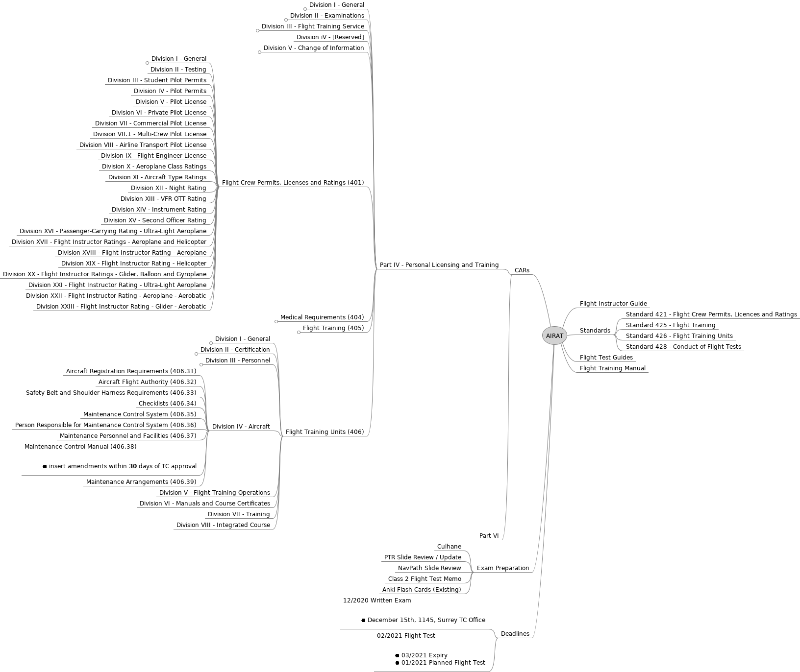
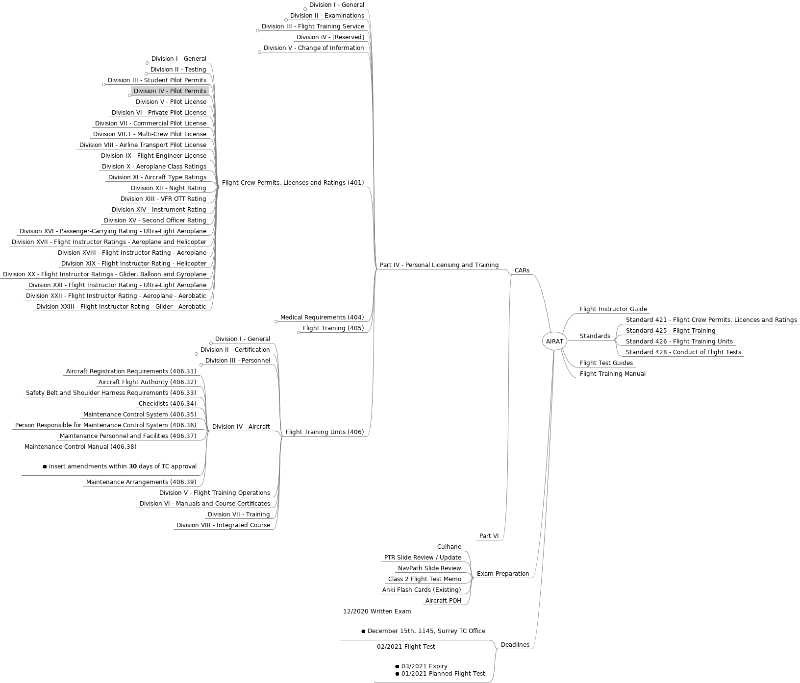
extended AIRAT mind map

diff --git a/FI/Documents/CARS/AIRAT.mm b/FI/Documents/CARS/AIRAT.mm
@@ -144,8 +144,7 @@
       </li>
     </ul>
   </body>
-</html>
-</richcontent>
+</html></richcontent>
 </node>
 <node CREATED="1602709482609" ID="ID_367148948" MODIFIED="1602709491628" TEXT="Requirement to Hold a Flight Crew Permit, Licence or Rating or a Foreign Licence Validation Certificate (401.03)"/>
 <node CREATED="1602709525309" ID="ID_9133881" MODIFIED="1602709530022" TEXT="Flight Crew Members of Aircraft Registered in Contracting States Other Than Canada (401.04)"/>
@@ -232,9 +231,43 @@
 </html></richcontent>
 </node>
 </node>
-<node CREATED="1602708627848" ID="ID_326761546" MODIFIED="1602708634191" TEXT="Division II - Testing"/>
-<node CREATED="1602708651847" ID="ID_365104351" MODIFIED="1602708658801" TEXT="Division III - Student Pilot Permits"/>
-<node CREATED="1602708671329" ID="ID_1634060802" MODIFIED="1602708676793" TEXT="Division IV - Pilot Permits"/>
+<node CREATED="1602708627848" FOLDED="true" ID="ID_326761546" MODIFIED="1602719186854" TEXT="Division II - Testing">
+<node CREATED="1602718619099" ID="ID_1553268553" MODIFIED="1602718625162" TEXT="Examination Prerequisites (401.13)"/>
+<node CREATED="1602718665641" ID="ID_1650594142" MODIFIED="1602718673187" TEXT="Flight Test Prerequisites (401.14)"/>
+<node CREATED="1602718825133" ID="ID_1519249816" MODIFIED="1602718934498">
+<richcontent TYPE="NODE"><html>
+  <head>
+    
+  </head>
+  <body>
+    <p>
+      Conduct of a Flight Test (401.15)
+    </p>
+    <p>
+      
+    </p>
+    <ul>
+      <li>
+        applicable <b>standard 428</b>
+      </li>
+    </ul>
+  </body>
+</html>
+</richcontent>
+</node>
+<node CREATED="1602718970866" ID="ID_875047402" MODIFIED="1602718977074" TEXT="Failure of a Flight Test (401.16)"/>
+<node CREATED="1602719006604" ID="ID_606010937" MODIFIED="1602719015733" TEXT="Failure of a Flight Test for a Rating Renewal (401.17)"/>
+<node CREATED="1602719073387" ID="ID_776085857" MODIFIED="1602719090339" TEXT="Examiner&#x2019;s Endorsement of Personal Log - Gliders and Balloons (401.18)"/>
+</node>
+<node CREATED="1602708651847" FOLDED="true" ID="ID_365104351" MODIFIED="1602719297489" TEXT="Division III - Student Pilot Permits">
+<node CREATED="1602719204802" ID="ID_1848954877" MODIFIED="1602719218316" TEXT="Privileges (401.19)"/>
+</node>
+<node CREATED="1602708671329" FOLDED="true" ID="ID_1634060802" MODIFIED="1602719770336" TEXT="Division IV - Pilot Permits">
+<node CREATED="1602719313659" ID="ID_534669498" MODIFIED="1602719329917" TEXT="Gyroplanes - Privileges (401.20)"/>
+<node CREATED="1602719418391" ID="ID_790621627" MODIFIED="1602719429740" TEXT="Ultra-light Aeroplanes - Privileges (401.21)"/>
+<node CREATED="1602719573422" ID="ID_120091614" MODIFIED="1602719599617" TEXT="Recreational - Aeroplanes - Privileges (401.22)"/>
+<node CREATED="1602719698689" ID="ID_528850096" MODIFIED="1602719722484" TEXT="Recreational - Helicopters - Privileges (401.23)"/>
+</node>
 <node CREATED="1602708693785" ID="ID_1273904181" MODIFIED="1602708700820" TEXT="Division V - Pilot License"/>
 <node CREATED="1602708717387" ID="ID_844779725" MODIFIED="1602708725893" TEXT="Division VI - Private Pilot License"/>
 <node CREATED="1602708742023" ID="ID_444083766" MODIFIED="1602708750655" TEXT="Division VII - Commercial Pilot License"/>
@@ -376,8 +409,7 @@
       </li>
     </ul>
   </body>
-</html>
-</richcontent>
+</html></richcontent>
 </node>
 <node CREATED="1602545258035" ID="ID_1938497332" MODIFIED="1602545316851">
 <richcontent TYPE="NODE"><html>
@@ -426,8 +458,7 @@
       </li>
     </ul>
   </body>
-</html>
-</richcontent>
+</html></richcontent>
 </node>
 <node CREATED="1602704778787" ID="ID_984703567" MODIFIED="1602704784456" TEXT="Application (405.02)"/>
 </node>
@@ -448,8 +479,7 @@
       Qualifications of Flight Instructors (405.21)
     </p>
   </body>
-</html>
-</richcontent>
+</html></richcontent>
 </node>
 <node CREATED="1602705019259" ID="ID_944917990" MODIFIED="1602705024716" TEXT="Aircraft Familiarization (405.22)"/>
 <node CREATED="1602705054530" ID="ID_479862282" MODIFIED="1602705060050" TEXT="Training Aircraft Requirements (405.23)"/>
@@ -472,8 +502,7 @@
       Division I - General
     </p>
   </body>
-</html>
-</richcontent>
+</html></richcontent>
 <node CREATED="1602702706290" ID="ID_968320992" MODIFIED="1602705239429">
 <richcontent TYPE="NODE"><html>
   <head>
@@ -492,8 +521,7 @@
       </li>
     </ul>
   </body>
-</html>
-</richcontent>
+</html></richcontent>
 </node>
 <node CREATED="1602702764580" ID="ID_483259101" MODIFIED="1602702770884" TEXT="Application (406.02)"/>
 <node CREATED="1602702794074" ID="ID_1074986471" MODIFIED="1602702800132" TEXT="Requirement to Hold a Flight Training Unit Operator Certificate (406.03)"/>
@@ -507,8 +535,7 @@
       Eligibility to Hold a Flight Training Unit Operator Certificate (406.04)
     </p>
   </body>
-</html>
-</richcontent>
+</html></richcontent>
 </node>
 <node CREATED="1602629445864" ID="ID_1286691528" MODIFIED="1602700659712">
 <richcontent TYPE="NODE"><html>
@@ -541,8 +568,7 @@
       Division II - Certification
     </p>
   </body>
-</html>
-</richcontent>
+</html></richcontent>
 <node CREATED="1602629627297" FOLDED="true" ID="ID_71323751" MODIFIED="1602703184300">
 <richcontent TYPE="NODE"><html>
   <head>
@@ -618,8 +644,7 @@
       Division III - Personnel
     </p>
   </body>
-</html>
-</richcontent>
+</html></richcontent>
 <node CREATED="1602699904222" ID="ID_770436872" MODIFIED="1602700389087">
 <richcontent TYPE="NODE"><html>
   <head>
@@ -789,8 +814,7 @@
       </li>
     </ul>
   </body>
-</html>
-</richcontent>
+</html></richcontent>
 </node>
 <node CREATED="1602704207938" ID="ID_1362297902" MODIFIED="1602704215170" TEXT="Maintenance Arrangements (406.39)"/>
 </node>
@@ -805,8 +829,7 @@
       Division VI -&#160;Manuals and Course Certificates
     </p>
   </body>
-</html>
-</richcontent>
+</html></richcontent>
 </node>
 <node CREATED="1602702552628" ID="ID_578560252" MODIFIED="1602702558151" TEXT="Division VII - Training"/>
 <node CREATED="1602702575444" ID="ID_263017236" MODIFIED="1602702583994" TEXT="Division VIII - Integrated Course"/>
@@ -848,6 +871,7 @@
 <node CREATED="1602348183541" ID="ID_1440743899" MODIFIED="1602348200585" TEXT="NavPath Slide Review"/>
 <node CREATED="1602628894783" ID="ID_618125190" MODIFIED="1602628910887" TEXT="Class 2 Flight Test Memo"/>
 <node CREATED="1602633541900" ID="ID_594574549" MODIFIED="1602633567189" TEXT="Anki Flash Cards (Existing)"/>
+<node CREATED="1602718684314" ID="ID_693952256" MODIFIED="1602718692608" TEXT="Aircraft POH"/>
 </node>
 <node CREATED="1602348247050" ID="ID_904553130" MODIFIED="1602348259187" POSITION="right" TEXT="Flight Test Guides"/>
 <node CREATED="1602348569417" ID="ID_1190188854" MODIFIED="1602709875477" POSITION="left" TEXT="Deadlines">
